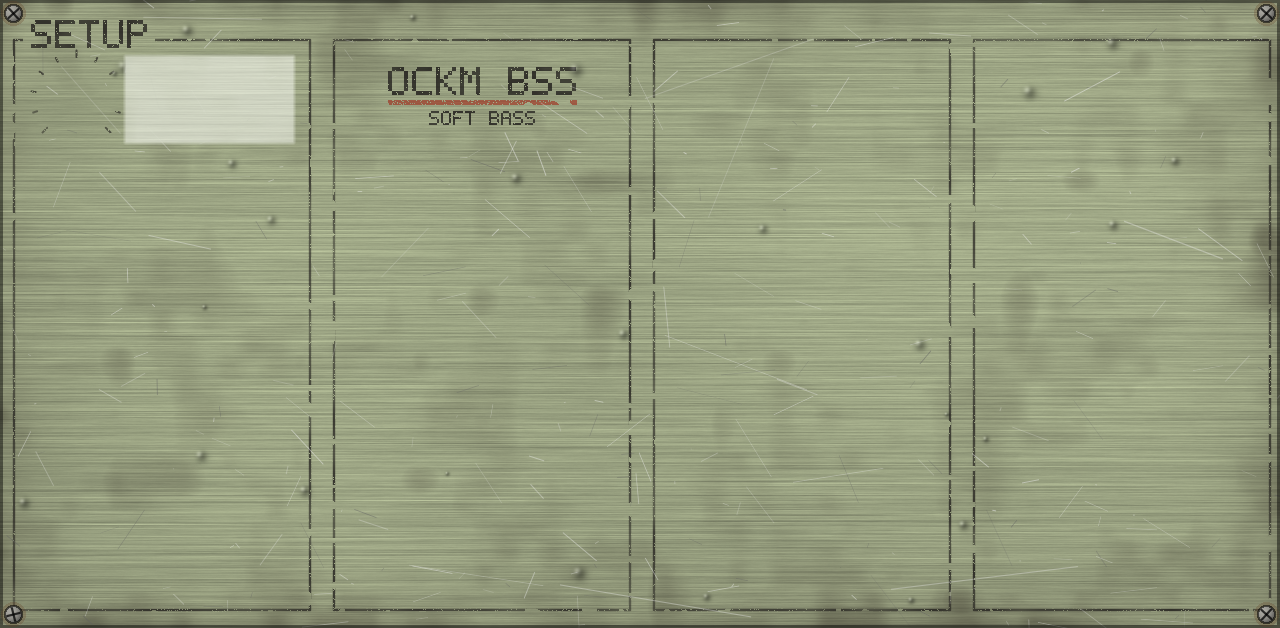
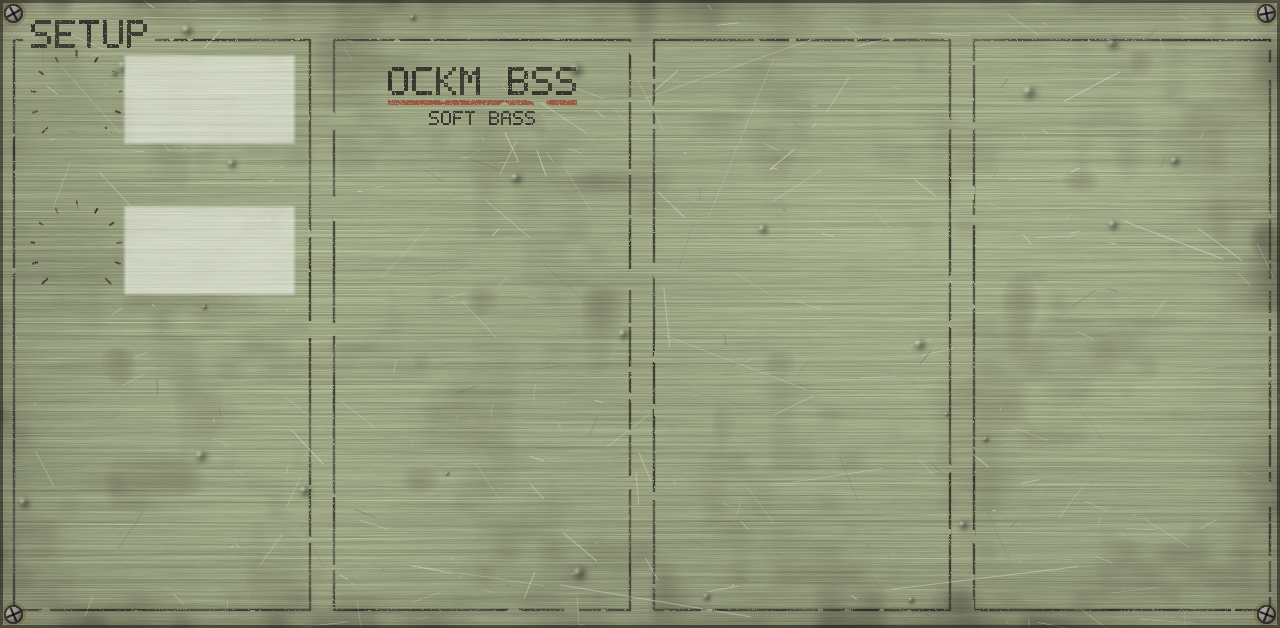
OCKM BSS 1.2: new default Tone

diff --git a/OCKM BSS/src/OCKMBSS.cpp b/OCKM BSS/src/OCKMBSS.cpp
@@ -13,11 +13,11 @@
 //        -> BassVoice:
 //             Core (rounded sine) + Sub (sine, one octave down, phase-locked)
 //               + Saw (PolyBLEP, optionally detuned)
+//          -> Drive (soft clip before the filter, level compensated, 0 = clean)
 //          -> Filter: 24 dB/oct zero-delay-feedback ladder low-pass, saturated in its loop
 //             cutoff (octaves above 40 Hz) = Cutoff knob + Env Amount * filter env
 //                                + key tracking (0.5 oct/oct from C1) - velocity darkening
-//          -> Drive (soft clip, level compensated, 0 = clean) -> growl low-mid lift
-//          -> fixed 5 kHz 12 dB/oct trim (keeps the open filter full, not fizzy)
+//          -> growl low-mid lift -> Tone (6 dB/oct darkening, 400 Hz .. 16 kHz)
 //          -> Amp envelope (attack, Decay-driven decay, sustain, release) * velocity
 //   -> 20 Hz rumble cut -> + Echo (bass-safe ping-pong delay, lows cut from the repeats)
 //   -> Volume -> safety ceiling (transparent below -3 dBFS) -> L / R
@@ -68,6 +68,7 @@ enum ParamIndex
     kEchoTime,     // echo time, tempo-synced choice
     kEchoFb,       // echo feedback, 0..100 %
     kEchoMix,      // echo level, 0..100 % (0 = echo off)
+    kTone,         // tone after the filter and amp chain, 0..100 % (shown in Hz)       [v1.2]
     kNumParams
 };
 
@@ -78,6 +79,7 @@ inline float glideMs(float n)   { return n <= 0.0f ? 0.0f : 10.0f * std::pow(50.
 inline float attackMs(float n)  { return std::pow(1000.0f, n); }           // 1 ms .. 1 s
 inline float releaseMs(float n) { return 5.0f * std::pow(600.0f, n); }     // 5 ms .. 3 s
 inline float detuneCents(float n) { return 20.0f * n; }
+inline float toneHz(float n)    { return 400.0f * std::pow(40.0f, n); }    // 400 Hz .. 16 kHz
 
 // Envelope times are "time to fall to about 2 %" = 4 time constants.
 inline float mulForMs(float ms, float sr, float steps = 1.0f)
@@ -97,7 +99,6 @@ constexpr float kGrowlBody    = 1.0f;    //   and a low-mid lift (+6 dB around k
 constexpr float kBodyHz       = 220.0f;
 constexpr float kTopKneeHz    = 2500.0f; // the filter (knob + envelope + key) eases off above here
 constexpr float kTopMaxHz     = 6000.0f; //   and never opens past this
-constexpr float kToneHz       = 5000.0f; // fixed 12 dB/oct trim after the drive
 constexpr int   kTick         = 8;       // control-rate interval in samples
 constexpr float kOutGain      = 2.2f;    // voice make-up gain (+7 dB): presets peak around -5 dBFS
 
@@ -173,7 +174,7 @@ struct Knobs                       // knob values, normalised 0..1
 {
     float cutoff = 0.42f, decay = 0.4f, reso = 0.25f, envAmt = 0.5f;
     float sub = 0.5f, saw = 0.3f, detune = 0.1f, glide = 0.0f;
-    float attack = 0.0f, sustain = 0.25f, release = 0.1f, drive = 0.0f, velFilt = 0.3f;
+    float attack = 0.0f, sustain = 0.25f, release = 0.1f, drive = 0.0f, velFilt = 0.3f, tone = 0.3f;
 };
 
 class BassVoice
@@ -185,14 +186,13 @@ public:
         smooth_ = 1.0f - std::exp(-(float)kTick / (0.015f * sr_));       // 15 ms knob smoothing
         fenvAttack_ = 1.0f - std::exp(-(float)kTick / (0.00068f * sr_)); // ~1 ms filter env attack
         thumpMul_ = std::exp(-(float)kTick / (kThumpMs * 0.001f * sr_));
-        tone1_.setCutoff(kToneHz, sampleRate); tone2_.setCutoff(kToneHz, sampleRate);
         bodyBand_.setCoeffs(BiquadCoeffs::bandpass(sampleRate, kBodyHz, 0.7f));
         reset();
     }
 
     void reset()
     {
-        filter_.reset(); tone1_.reset(); tone2_.reset(); bodyBand_.reset();
+        filter_.reset(); tone1_ = 0.0f; bodyBand_.reset();
         gate_ = false; stage_ = kIdle; amp_ = 0.0f;
         fenv_ = 0.0f; fenvRising_ = false; drop_ = 0.0f;
         pitch_ = pitchTarget_ = 36.0f;
@@ -256,7 +256,7 @@ public:
                     break;
                 case kRelease:
                     amp_ *= releaseMul_;
-                    if (amp_ < 1.0e-4f) { amp_ = 0.0f; stage_ = kIdle; filter_.reset(); tone1_.reset(); tone2_.reset(); bodyBand_.reset(); return; }   // -80 dB: done
+                    if (amp_ < 1.0e-4f) { amp_ = 0.0f; stage_ = kIdle; filter_.reset(); tone1_ = 0.0f; bodyBand_.reset(); return; }   // -80 dB: done
                     break;
                 default: break;
             }
@@ -271,15 +271,17 @@ public:
             const float core = roundSine(phase_);
             const float sub = roundSine(0.5f * phase_ + subFlip_);
             const float saw = 2.0f * sawPhase_ - 1.0f - polyBlep(sawPhase_, sawInc);
-            const float mix = core + subLvl_.next() * sub + sawLvl_.next() * saw;
+            float mix = core + subLvl_.next() * sub + sawLvl_.next() * saw;
 
-            // Filter, drive, amp.
+            // Drive (before the filter, so the filter smooths what it adds), filter, lift, tone, amp.
+            const float dMix = driveMix_.next(), dPre = drivePre_.next(), dNorm = driveNorm_.next();
+            if (dMix > 0.0f) mix += dMix * (fastTanh(mix * dPre) * dNorm - mix);
             Gs_ += 0.35f * (G_.next() - Gs_);                                 // rounds the ramp's corners
             float y = filter_.process(mix, Gs_, k_.next(), comp_.next()) * heatOut_.next();
-            const float dMix = driveMix_.next(), dPre = drivePre_.next(), dNorm = driveNorm_.next();
-            if (dMix > 0.0f) y += dMix * (fastTanh(y * dPre) * dNorm - y);
             y += body_.next() * bodyBand_.process(y);                         // low-mid lift (growl)
-            y = tone2_.process(tone1_.process(y));                           // trim the fizz
+            const float ta = toneA_.next();
+            tone1_ += ta * (y - tone1_);                                     // Tone: 6 dB/oct darkening
+            y = tone1_;
             out[i] += y * amp_ * velGain_ * kOutGain;
         }
     }
@@ -307,6 +309,7 @@ private:
         s_.sustain += smooth_ * (t_.sustain - s_.sustain);
         s_.drive   += smooth_ * (t_.drive - s_.drive);
         s_.velFilt += smooth_ * (t_.velFilt - s_.velFilt);
+        s_.tone    += smooth_ * (t_.tone - s_.tone);
 
         // Zones (SPEC 3a): offsets on top of the knobs, never overwrites.
         const float thump = thumpAmount(s_.decay), hold = holdAmount(s_.decay), growl = growlAmount(s_.cutoff);
@@ -356,11 +359,12 @@ private:
         sawLvl_.to(sawL, snap);
         comp_.to(0.75f * std::pow(1.0f + k, 0.6f) * norm * heat, snap);
         body_.to(kGrowlBody * growl, snap);
+        toneA_.to(1.0f - std::exp(-2.0f * kPi * toneHz(s_.tone) / sr_), snap);
         heatOut_.to(std::pow(heat, -0.65f), snap);                        // level-match the hotter filter
-        const float pre = 1.0f + 8.0f * drive * drive;
+        const float pre = 1.0f + 12.0f * drive * drive;
         drivePre_.to(pre, snap);
         driveMix_.to(clamp(2.0f * drive, 0.0f, 1.0f), snap);
-        driveNorm_.to(0.6f / fastTanh(0.6f * pre), snap);
+        driveNorm_.to(0.8f / fastTanh(0.8f * pre), snap);
     }
 
     Ladder filter_;
@@ -372,8 +376,8 @@ private:
     float fenv_ = 0.0f, drop_ = 0.0f, glideCoef_ = 1.0f;
     float pitch_ = 36.0f, pitchTarget_ = 36.0f, vel01_ = 1.0f, velGain_ = 1.0f;
     float phase_ = 0.0f, sawPhase_ = 0.0f, subFlip_ = 0.0f, detuneRatio_ = 1.0f;
-    Ramp inc_, G_, k_, comp_, heatOut_, body_, subLvl_, sawLvl_, drivePre_, driveMix_, driveNorm_;
-    OnePoleLP tone1_, tone2_;
+    Ramp inc_, G_, k_, comp_, heatOut_, body_, toneA_, subLvl_, sawLvl_, drivePre_, driveMix_, driveNorm_;
+    float tone1_ = 0.0f;
     Biquad bodyBand_;
     float Gs_ = 0.0f;
     int ctr_ = 0;
@@ -537,6 +541,7 @@ public:
         addParam(choiceParam("echotime", "Echo Time", {"1/16", "1/8T", "1/8", "1/8.", "1/4"}, 3));
         addParam(floatParam("echofb",  "Feedback",     0.0f, 100.0f, 35.0f, "%", 0));
         addParam(floatParam("echomix", "Echo Mix",     0.0f, 100.0f, 0.0f, "%", 0));
+        addParam(floatParam("tone",    "Tone",         0.0f, 100.0f, 30.0f, "Hz", 0));
         if (numParams() != kNumParams) mpc::log("OCKM BSS: parameter count mismatch (%d vs %d)", numParams(), (int)kNumParams);
 
         auto program = [this](const char* name, std::initializer_list<std::pair<int, float>> overrides)
@@ -587,7 +592,7 @@ public:
         k.detune = getNormalised(kDetune); k.glide = getNormalised(kGlide);
         k.attack = getNormalised(kAttack); k.sustain = getNormalised(kSustain);
         k.release = getNormalised(kRelease); k.drive = getNormalised(kDrive);
-        k.velFilt = getNormalised(kVelFilt);
+        k.velFilt = getNormalised(kVelFilt); k.tone = getNormalised(kTone);
         voice_.setKnobs(k);
         volume_.setTarget(dbToGain(get(kVolume)));
         const mpc::Transport& tr = ctx.transport;
@@ -640,6 +645,7 @@ public:
                            std::snprintf(buf, sizeof(buf), "%.0f", (double)glideMs(n)); break;
             case kAttack:  std::snprintf(buf, sizeof(buf), "%.0f", (double)attackMs(n)); break;
             case kRelease: std::snprintf(buf, sizeof(buf), "%.0f", (double)releaseMs(n)); break;
+            case kTone:    std::snprintf(buf, sizeof(buf), "%.0f", (double)toneHz(n)); break;
             case kDetune:  std::snprintf(buf, sizeof(buf), "%.1f", (double)detuneCents(n)); break;
             default: return false;
         }

diff --git a/OCKM BSS/tests/harness.cpp b/OCKM BSS/tests/harness.cpp
@@ -283,7 +283,7 @@ int main(int argc, char** argv)
         printf("      growl corner: level after 1 s x%.2f of the attack, brightness %.0f Hz (Init %.0f Hz), held level after 1 s %.1f dB (Init %.1f dB)\n",
                holdRatio, bG, bI, db(fullG), db(fullI));
         check(holdRatio >= 0.5f, "Cutoff 100 / Decay 100: a held note keeps growling (at least half its level after 1 s)");
-        check(bG > 3.0f * bI, "Cutoff 100 / Decay 100: far brighter than the Init sound");
+        check(bG > 2.5f * bI, "Cutoff 100 / Decay 100: far brighter than the Init sound (> 2.5x in Hz)");
         check(fullG > 2.0f * fullI, "Cutoff 100 / Decay 100: fuller than the Init sound (held level at least 6 dB higher after 1 s)");
         check(peak(o.L) < 1.0f && peak(og.L) < 1.0f, "kick and growl corners stay below 0 dBFS");
 
@@ -429,6 +429,29 @@ int main(int argc, char** argv)
         OCKMBSS b; b.set(kVolume, -18.0206f); auto ob = render(b, bassline(1), 16 * STEP);
         float maxd = 0; for (size_t i = 0; i < oa.L.size(); ++i) maxd = std::fmax(maxd, std::fabs(oa.L[i] - 2.0f * ob.L[i]));
         check(maxd < 1e-4f, "Volume only changes the level (-12 dB vs -18 dB renders match x2)");
+    }
+
+    // ---------------------------------------------------------------------------------------
+    // 12b. Tone darkens after the filter; Drive (before the filter) adds grit at a similar level.
+    // ---------------------------------------------------------------------------------------
+    {
+        auto top = [&](float tone, float cut, float drive, float& lvl) {
+            OCKMBSS p; p.setNormalised(kTone, tone); p.setNormalised(kCutoff, cut); p.setNormalised(kDrive, drive);
+            p.setNormalised(kDecay, 0.9f);
+            auto o = render(p, bassline(2), 32 * STEP);
+            lvl = db(rms(o.L, 0, (int)o.L.size()));
+            return brightDb(o.L, 0, (int)o.L.size());
+        };
+        float l0, l1, l2, lA, lB;
+        const float t0 = top(0.0f, 0.8f, 0.0f, l0), t1 = top(0.3f, 0.8f, 0.0f, l1), t2 = top(1.0f, 0.8f, 0.0f, l2);
+        printf("      top-end index at Tone 0 / 30 / 100 (Cutoff 80): %.1f / %.1f / %.1f dB, level %.1f / %.1f / %.1f dB\n",
+               t0, t1, t2, l0, l1, l2);
+        check(t2 - t1 > 3.0f && t1 - t0 > 3.0f, "Tone: each step darker or brighter (> 3 dB top end), low end kept");
+        check(std::fabs(l2 - l0) < 3.0f, "Tone: level within 3 dB from Tone 0 to 100");
+        const float dA = top(0.3f, 0.42f, 0.0f, lA), dB = top(0.3f, 0.42f, 1.0f, lB);
+        printf("      Drive 0 / 100 (Init): top-end index %.1f / %.1f dB, level %.1f / %.1f dB\n", dA, dB, lA, lB);
+        check(dB - dA > 2.0f, "Drive: adds harmonics (> 2 dB more top end at 100 %)");
+        check(std::fabs(lB - lA) < 2.0f, "Drive: level-matched (within 2 dB at the Init sound)");
     }
 
     // ---------------------------------------------------------------------------------------

diff --git a/OCKM BSS/README.md b/OCKM BSS/README.md
@@ -43,8 +43,11 @@ In between, every knob works exactly as set (the harness proves it bit for bit).
 - **Glide:** at 0 every note re-plucks, even if notes overlap. Above 0, a note that overlaps the
   previous one in the sequence slides to its pitch without re-plucking. Lengthen a note into the
   next one on the MPC to make it slide.
-- **Drive:** a gentle, level-matched soft clip after the filter, with a fixed gentle trim at
-  5 kHz after it so it adds grit, not fizz.
+- **Drive:** a level-matched soft clip **before** the filter, so the filter smooths what it
+  adds: grit and weight, not fizz.
+- **Tone** (SETUP page): a gentle 6 dB/octave darkening after the filter, from 400 Hz (very dark)
+  to 16 kHz (open). The default, about 1.2 kHz, takes the edge off the top without touching the
+  sub or the body.
 - **Echo:** synced to the MPC's tempo (1/16, 1/8T, 1/8, dotted 1/8, 1/4), ping-pong left and
   right. What goes into the echo loses everything below 250 Hz (24 dB/octave) and each repeat
   gets a little darker and lighter on lows, so the bass stays one tight, centred note and never
@@ -61,7 +64,7 @@ In between, every knob works exactly as set (the harness proves it bit for bit).
 | Env Amount | Glide | Volume | Echo Mix |
 
 Each column is one Q-Link bank; Cutoff and Decay are the top two of the first. Program-mode
-Q-Links use the same layout. Page **SETUP** holds Vel>Filter and the name badge.
+Q-Links use the same layout. Page **SETUP** holds Vel>Filter, Tone and the name badge.
 
 ## Presets
 
@@ -79,6 +82,9 @@ over 16 bars, then Warm House Pluck with the echo turned up.
   **Not yet measured on the MPC One.**
 - **The output never clips:** a soft ceiling above −3 dBFS keeps even everything at maximum with
   Volume +6 dB under 0 dBFS. The presets peak around −5 to −8 dBFS and don't touch it.
+- **v1.2.0: Tone and drive before the filter.** At Cutoff 100 / Decay 90 the default Tone
+  takes another 5 dB off above 2 kHz (12 + 5 dB less than v1.0.0) and keeps the body. Drive 100%
+  is within 1 dB of Drive 0 at the Init sound.
 - **v1.1.0: full, not fizzy.** In v1.0.0, opening Cutoff and Decay got very fizzy. Now, at
   Cutoff 100 / Decay 90, there's about 12 dB less above 2 kHz and the low-mids sit 2 dB closer
   to the sub, at the same overall level. The top quarter of Cutoff is still the gentlest step
